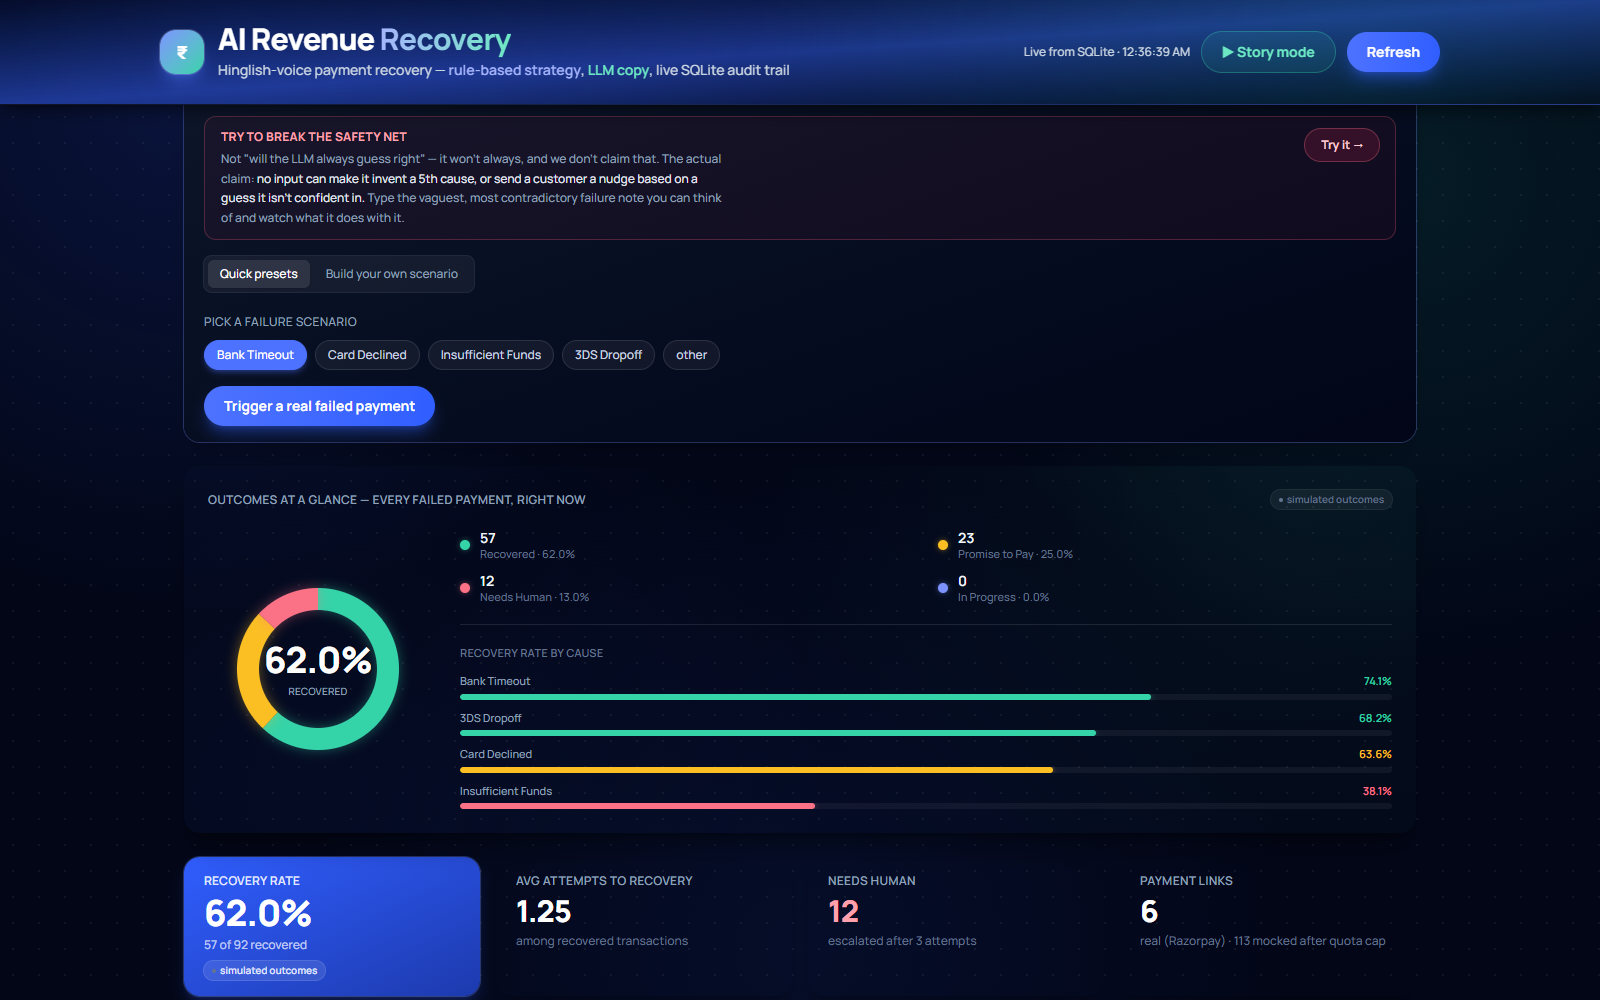
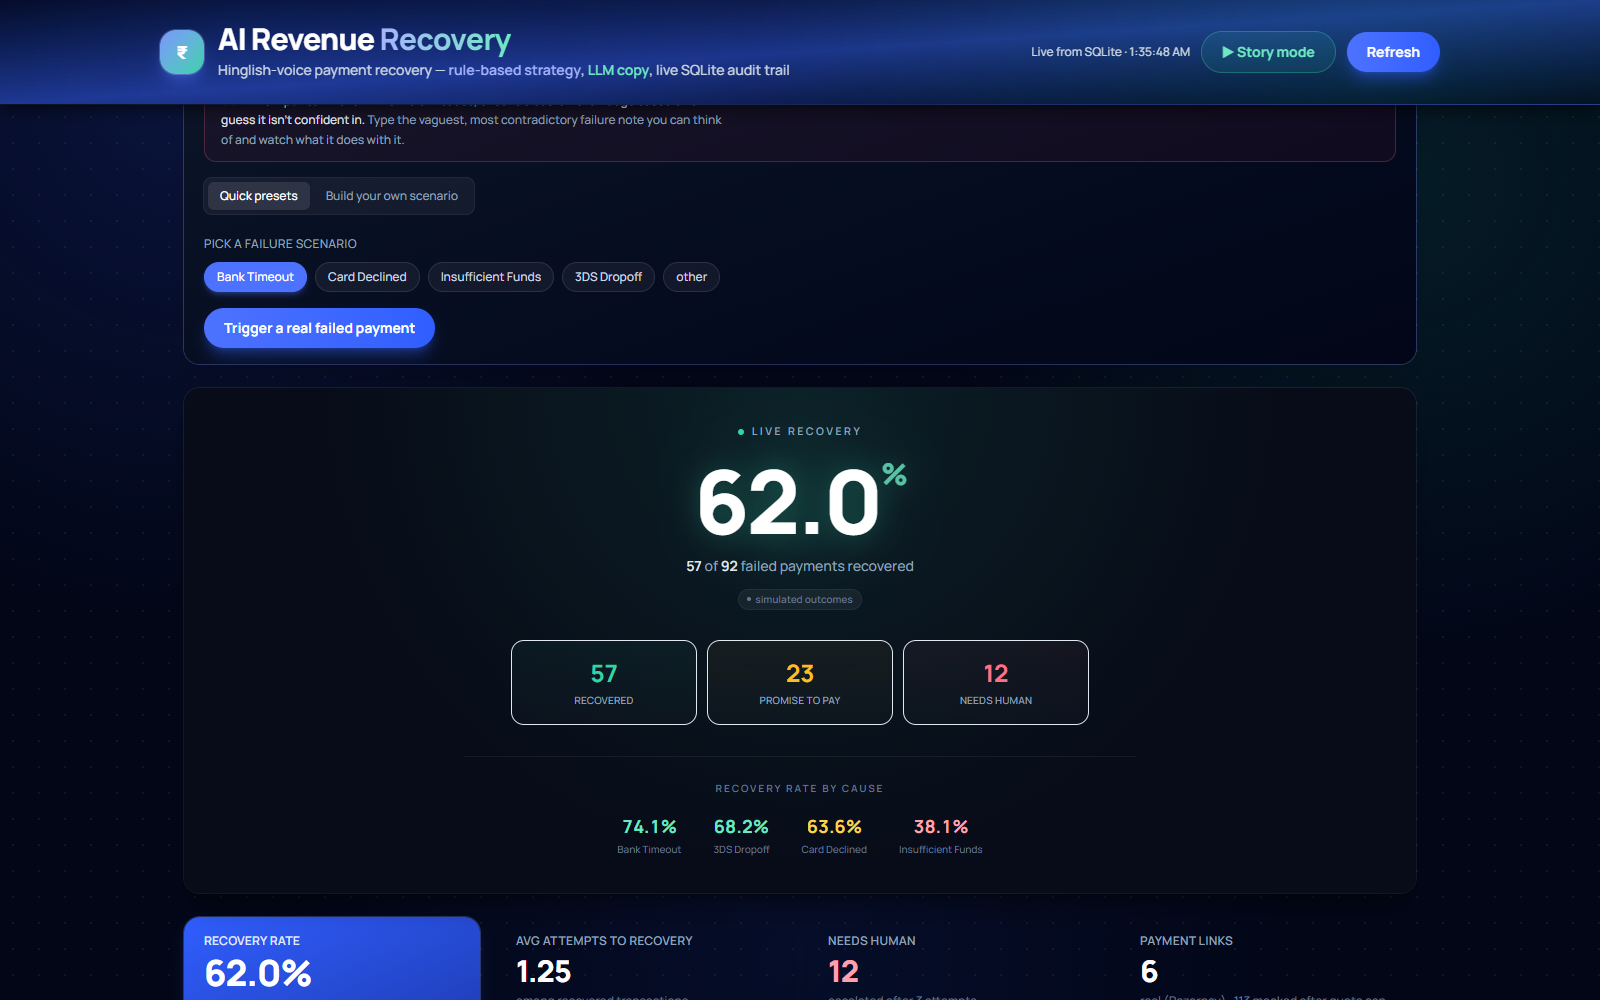
Update README screenshot + description for the final outcome-visual design
Recaptured docs/screenshots/13-outcome-visual.png from the live Render
deployment now that the panel's design settled (donut -> Sankey flow ->
toned-down glow hero figure, see the prior 3 commits) — the previous
screenshot showed an outdated design. Verified /api/metrics/summary
matched the exact documented baseline (92/57/62.0%/12) immediately
before and after capture; no mutating actions taken during the
screenshot session.

Updated the "A visual read, not just a wall of numbers" section's prose
to describe what's actually there now (a glanceable hero recovery-rate
figure with stat cards and per-cause bars) instead of the stale "donut
chart" description, and added a one-line note on the 3 design
iterations this went through so a reader isn't confused if they compare
against an earlier commit's screenshot.

Verified before committing: all 27 anchor links still resolve, all 11
embedded images resolve to real files, all 31 backend tests pass, local
recovery.db unchanged (92 total / 835 audit_log rows).

diff --git a/README.md b/README.md
@@ -211,24 +211,26 @@ board as everything else.
 ### A visual read, not just a wall of numbers
 
 <p align="center">
-  <img src="docs/screenshots/13-outcome-visual.png" width="800" alt="Animated donut chart and per-cause bars, live from the same summary/by-cause data">
+  <img src="docs/screenshots/13-outcome-visual.png" width="800" alt="A live, animated recovery-rate hero figure with stat cards and per-cause bars, from the same summary/by-cause data">
 </p>
 
 Right below the Live Demo panel, `OutcomeVisual.jsx` renders the same
-`/api/metrics/summary` and `/api/metrics/by-cause` data every other panel reads — as an
-animated donut chart (recovered / promise-to-pay / needs-human / in-progress, as
-proportions of the total) plus a live per-cause recovery-rate bar comparison — instead of
-requiring a reader to parse another stat table. No new endpoint, no separate state: it's
-the exact same `summary`/`byCause` props `MetricsHeader.jsx` and
-`CauseBreakdownTable.jsx` already receive from `App.jsx`.
+`/api/metrics/summary` and `/api/metrics/by-cause` data every other panel reads — as a
+single glanceable hero figure (the live recovery rate, with a soft glow on a dark radial
+backdrop) plus a small row of colored outcome stat cards and a per-cause recovery-rate
+breakdown — instead of requiring a reader to parse another stat table. No new endpoint,
+no separate state: it's the exact same `summary`/`byCause` props `MetricsHeader.jsx` and
+`CauseBreakdownTable.jsx` already receive from `App.jsx`. (This went through 3 visual
+iterations — a donut, then a Sankey-style flow diagram, then this — before landing;
+earlier attempts weren't the wrong data, just the wrong shape for it.)
 
-**It genuinely re-renders on new data, not just on first load.** Both the donut's arc
-lengths and the cause bars interpolate from their previous value to the new one whenever
-the underlying numbers change — the same tween pattern `AnimatedNumber.jsx` uses for
-counting numbers up — so clicking Refresh (which adds 2-3 real transactions, see below)
-visibly nudges the rings and bars, not just the numbers next to them. Verified directly:
-three consecutive Refresh clicks during testing moved the total from 92 → 94 → 97 → 100
-and the chart correctly recomputed and re-rendered every time, with no stale state.
+**It genuinely re-renders on new data, not just on first load.** The hero percentage,
+every stat card count, and every per-cause figure interpolates from its previous value to
+the new one whenever the underlying numbers change — the same tween pattern
+`AnimatedNumber.jsx` uses for counting numbers up — so clicking Refresh (which adds 2-3
+real transactions, see below) visibly animates the figures, not just replaces them.
+Verified directly across multiple Refresh clicks during testing: the panel correctly
+recomputed and re-rendered every time, with no stale state.
 
 ### Live traffic simulation on Refresh
 
